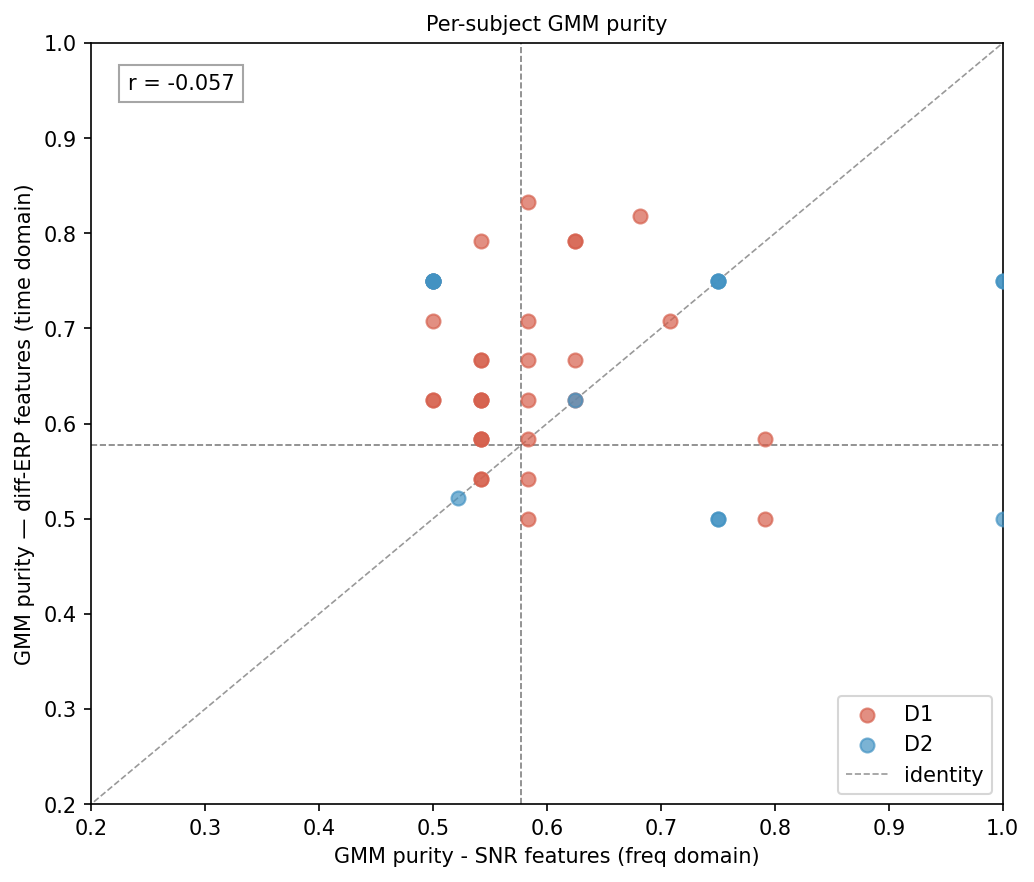
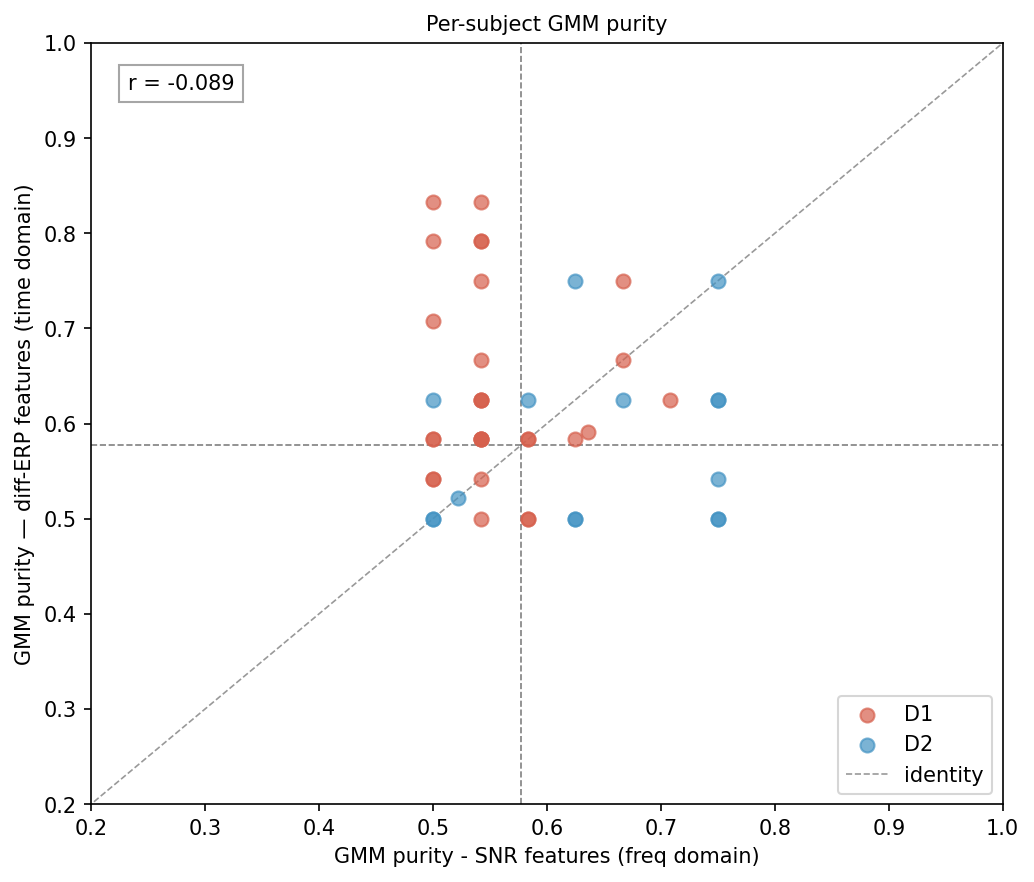
revert demeaning

diff --git a/within_subject_analysis.py b/within_subject_analysis.py
@@ -121,10 +121,7 @@ def load_erp_data():
 
 # per-subject analysis
 def analyse_snr_per_subject(df_snr):
-    """Run within-subject clustering on all-electrode SNR features.
-
-    Font x modality demeaning applied identically to the diff-ERP pipeline.
-    """
+    """Run within-subject clustering on all-electrode SNR features."""
     rows   = []
     embeds = {}
 
@@ -135,14 +132,6 @@ def analyse_snr_per_subject(df_snr):
 
         if y_true.sum() < 2 or (len(y_true) - y_true.sum()) < 2:
             continue
-
-        # font x modality demean
-        cell_keys = (sub['font_label'] + '|' + sub['modality']).values
-        demeaned  = flat.copy()
-        for cell in np.unique(cell_keys):
-            mask = cell_keys == cell
-            demeaned[mask] -= demeaned[mask].mean(axis=0)
-        flat = demeaned
 
         sc, emb = _cluster_and_score(flat, y_true, n_components_pca=15)
         if sc is None:
@@ -156,13 +145,7 @@ def analyse_snr_per_subject(df_snr):
     return pd.DataFrame(rows), embeds
 
 def analyse_erp_per_subject(records, df_meta):
-    """Run within-subject clustering on diff-ERP features (fully unsupervised).
-
-    Font x modality demeaning is applied before clustering: the mean feature
-    vector for each (font_label, modality) cell is subtracted from every
-    sequence in that cell.  This removes between-condition-type variance
-    (font and modality) so that the clustering reflects parity structure only.
-    """
+    """Run within-subject clustering on diff-ERP features (fully unsupervised)."""
     rows   = []
     embeds = {}
 
@@ -178,15 +161,6 @@ def analyse_erp_per_subject(records, df_meta):
 
         # full diff-ERP; labels never used here
         occ_ravel = np.stack([r['diff_erp'].ravel() for r in recs_s])
-
-        # font x modality demean (labels not used — font_label and modality
-        # are properties of the stimulus stream, not the condition)
-        cell_keys = np.array([f"{r['font_label']}|{r['modality']}" for r in recs_s])
-        demeaned  = occ_ravel.copy()
-        for cell in np.unique(cell_keys):
-            mask = cell_keys == cell
-            demeaned[mask] -= demeaned[mask].mean(axis=0)
-        occ_ravel = demeaned
 
         sc, emb = _cluster_and_score(occ_ravel, y_true, n_components_pca=10)
         if sc is None:
